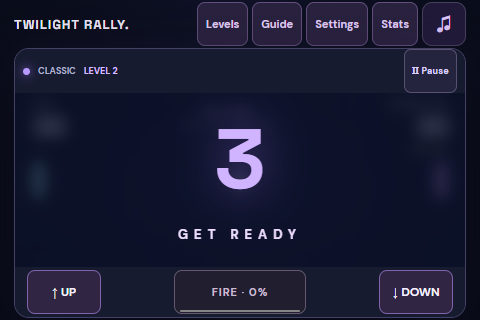
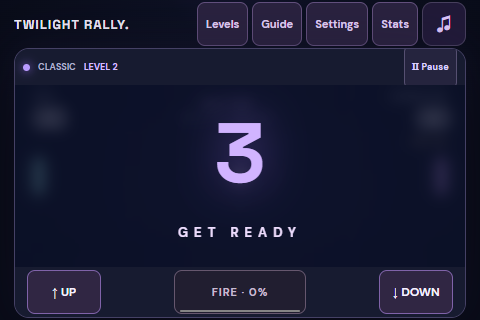
Revert "Support mobile forced landscape rendering and touch paddle coordinates"
This reverts commit 5d6515f0140073cf052ea3d6b21867f9b3824d47.

diff --git a/src/styles.css b/src/styles.css
@@ -1360,89 +1360,112 @@ select:focus-visible {
   }
 }
 
-/* Forced landscape orientation on mobile portrait */
-@media (max-width: 600px) and (orientation: portrait),
+/* Mobile landscape-only orientation blocker */
+.rotate-overlay {
+  display: none;
+  position: fixed;
+  inset: 0;
+  z-index: 99999;
+  background: radial-gradient(
+    ellipse at 50% 38%,
+    #2a204e 0%,
+    #10132b 55%,
+    #070a16 95%
+  );
+  align-items: center;
+  justify-content: center;
+  text-align: center;
+  padding: max(24px, env(safe-area-inset-top))
+    max(24px, env(safe-area-inset-right))
+    max(24px, env(safe-area-inset-bottom))
+    max(24px, env(safe-area-inset-left));
+}
+
+@media (max-width: 768px) and (orientation: portrait),
        (max-device-width: 920px) and (orientation: portrait) and (pointer: coarse) {
-  html,
-  body {
-    overflow: hidden;
-    width: 100vw;
-    height: 100vh;
-    height: 100dvh;
+  .rotate-overlay {
+    display: flex;
   }
+}
 
-  .shell {
-    position: fixed;
-    top: 0;
-    left: 100vw;
-    width: 100dvh;
-    height: 100dvw;
-    transform-origin: 0 0;
-    transform: rotate(90deg);
-    gap: 2px;
-    padding-top: max(2px, env(safe-area-inset-left));
-    padding-bottom: max(2px, env(safe-area-inset-right));
-    padding-left: max(14px, env(safe-area-inset-top));
-    padding-right: max(14px, env(safe-area-inset-bottom));
+@media (orientation: landscape) {
+  .rotate-overlay {
+    display: none !important;
   }
+}
 
-  .topbar {
-    min-height: 44px;
-    height: 44px;
-    gap: 6px;
-  }
+.rotate-device-card {
+  display: flex;
+  flex-direction: column;
+  align-items: center;
+  gap: 12px;
+  max-width: 320px;
+  margin: auto;
+}
 
-  .topbar-right {
-    gap: 4px;
-  }
+.rotate-device-icon {
+  position: relative;
+  width: 80px;
+  height: 80px;
+  display: grid;
+  place-items: center;
+  margin-bottom: 6px;
+  color: #bd95ff;
+}
 
-  .help-button {
-    padding: 6px 9px;
-    font-size: 11px;
-    min-height: 44px;
-    min-width: 44px;
-  }
+.rotate-device-icon .phone-svg {
+  animation: rotatePhoneAnim 2.8s cubic-bezier(0.4, 0, 0.2, 1) infinite;
+  transform-origin: center;
+}
 
-  .game-header {
-    min-height: 44px;
-    height: 44px;
-    padding: 0 8px;
-  }
+.rotate-arrow {
+  position: absolute;
+  top: 50%;
+  left: 50%;
+  transform: translate(-50%, -50%);
+  font-size: 20px;
+  color: #9bf0e8;
+  opacity: 0.9;
+}
 
-  .paddle-controls {
-    padding: 3px 12px;
-    gap: 8px;
+@keyframes rotatePhoneAnim {
+  0%, 25% {
+    transform: rotate(0deg);
   }
+  50%, 75% {
+    transform: rotate(-90deg);
+  }
+  95%, 100% {
+    transform: rotate(0deg);
+  }
+}
 
-  .paddle-controls button {
-    min-width: 74px;
-    min-height: 44px;
-    font-size: 12px;
+@media (prefers-reduced-motion: reduce) {
+  .rotate-device-icon .phone-svg {
+    animation: none;
+    transform: rotate(-90deg);
   }
+}
 
-  .paddle-controls button:active {
-    background: #4a3a66;
-  }
+.rotate-device-card h2 {
+  font-family: "Space Grotesk", sans-serif;
+  font-size: 26px;
+  line-height: 1.15;
+  margin: 0;
+  letter-spacing: -0.5px;
+  color: #ffffff;
+}
 
-  .learning-tip {
-    font-size: 10px;
-    bottom: 3px;
-  }
+.rotate-device-card h2 em {
+  font-style: normal;
+  color: #bd95ff;
+}
 
-  /* Modals in forced landscape */
-  dialog[open],
-  .help-dialog[open] {
-    position: fixed !important;
-    top: 50% !important;
-    left: 50% !important;
-    margin: 0 !important;
-    transform: translate(-50%, -50%) rotate(90deg) !important;
-    transform-origin: center center !important;
-    width: min(520px, calc(100dvh - 32px)) !important;
-    max-width: min(520px, calc(100dvh - 32px)) !important;
-    max-height: min(340px, calc(100dvw - 32px)) !important;
-    overflow-y: auto !important;
-  }
+.rotate-device-card p {
+  font-size: 13px;
+  line-height: 1.5;
+  color: #c0bfd4;
+  margin: 0;
 }
 
 /* Enhanced landscape layout tuning for mobile phones */
@@ -1456,7 +1479,6 @@ select:focus-visible {
   }
   .topbar {
     min-height: 44px;
-    height: 44px;
     gap: 6px;
   }
   .topbar-right {
@@ -1466,11 +1488,9 @@ select:focus-visible {
     padding: 6px 9px;
     font-size: 11px;
     min-height: 44px;
-    min-width: 44px;
   }
   .game-header {
-    min-height: 44px;
-    height: 44px;
+    height: 36px;
     padding: 0 8px;
   }
   .paddle-controls {

diff --git a/src/main.js b/src/main.js
@@ -312,24 +312,11 @@ function animate(timestamp) {
 function updatePointer(event) {
   if (state.phase !== "playing") return;
   const rect = canvas.getBoundingClientRect();
-  const isRotated =
-    rect.width < rect.height ||
-    window.matchMedia(
-      "(max-width: 600px) and (orientation: portrait), (max-device-width: 920px) and (orientation: portrait) and (pointer: coarse)",
-    ).matches;
-  if (isRotated) {
-    state.pointerY = clamp(
-      ((rect.right - event.clientX) / rect.width) * FIELD.height,
-      0,
-      FIELD.height,
-    );
-  } else {
-    state.pointerY = clamp(
-      ((event.clientY - rect.top) / rect.height) * FIELD.height,
-      0,
-      FIELD.height,
-    );
-  }
+  state.pointerY = clamp(
+    ((event.clientY - rect.top) / rect.height) * FIELD.height,
+    0,
+    FIELD.height,
+  );
 }
 
 canvas.addEventListener("pointerdown", (event) => {
@@ -388,6 +375,20 @@ document.addEventListener("visibilitychange", () => {
   )
     pause();
 });
+
+function onOrientationOrResize() {
+  const isPortraitMobile = window.matchMedia(
+    "(max-width: 768px) and (orientation: portrait)",
+  ).matches;
+  if (
+    isPortraitMobile &&
+    ["playing", "between", "countdown"].includes(state.phase)
+  ) {
+    pause();
+  }
+}
+window.addEventListener("resize", onOrientationOrResize);
+window.addEventListener("orientationchange", onOrientationOrResize);
 
 for (const button of document.querySelectorAll("[data-speed]")) {
   button.addEventListener("click", () => {

diff --git a/scripts/test-responsive.js b/scripts/test-responsive.js
@@ -74,21 +74,20 @@ try {
       true,
     );
     const isPortraitPhone = width < 600 && height > width;
-    const isRotated = await evaluate(`(() => {
-      const s = window.getComputedStyle(document.querySelector('.shell'));
-      return s.transform !== 'none';
-    })()`);
+    const rotateVisible = await evaluate(
+      `Boolean(document.getElementById('rotateOverlay') && window.getComputedStyle(document.getElementById('rotateOverlay')).display !== 'none')`,
+    );
     if (isPortraitPhone) {
       assert.equal(
-        isRotated,
+        rotateVisible,
         true,
-        `Forced landscape rotation must be active on portrait mobile (${width}x${height})`,
+        `Rotate overlay must be visible on portrait mobile (${width}x${height})`,
       );
     } else if (width > height) {
       assert.equal(
-        isRotated,
+        rotateVisible,
         false,
-        `Forced landscape rotation must be inactive on landscape (${width}x${height})`,
+        `Rotate overlay must be hidden on landscape (${width}x${height})`,
       );
     }
     const layout = await evaluate(`(() => {

diff --git a/index.html b/index.html
@@ -227,6 +227,21 @@
         </section>
       </main>
     </div>
+    <div id="rotateOverlay" class="rotate-overlay" role="status" aria-live="polite">
+      <div class="rotate-device-card">
+        <div class="rotate-device-icon" aria-hidden="true">
+          <svg class="phone-svg" width="72" height="72" viewBox="0 0 24 24" fill="none" stroke="currentColor" stroke-width="1.8" stroke-linecap="round" stroke-linejoin="round">
+            <rect x="5" y="2" width="14" height="20" rx="3" ry="3"></rect>
+            <line x1="12" y1="18" x2="12.01" y2="18"></line>
+          </svg>
+          <span class="rotate-arrow" aria-hidden="true">↻</span>
+        </div>
+        <div class="hero-badge">LANDSCAPE ARCADE</div>
+        <h2>PLEASE ROTATE<br /><em>YOUR DEVICE</em></h2>
+        <p>Twilight Rally is optimized for landscape arcade play on mobile phones.</p>
+        <span class="overlay-help">Turn your device horizontally to play</span>
+      </div>
+    </div>
     <dialog
       id="resultsOptionsDialog"
       class="help-dialog"
